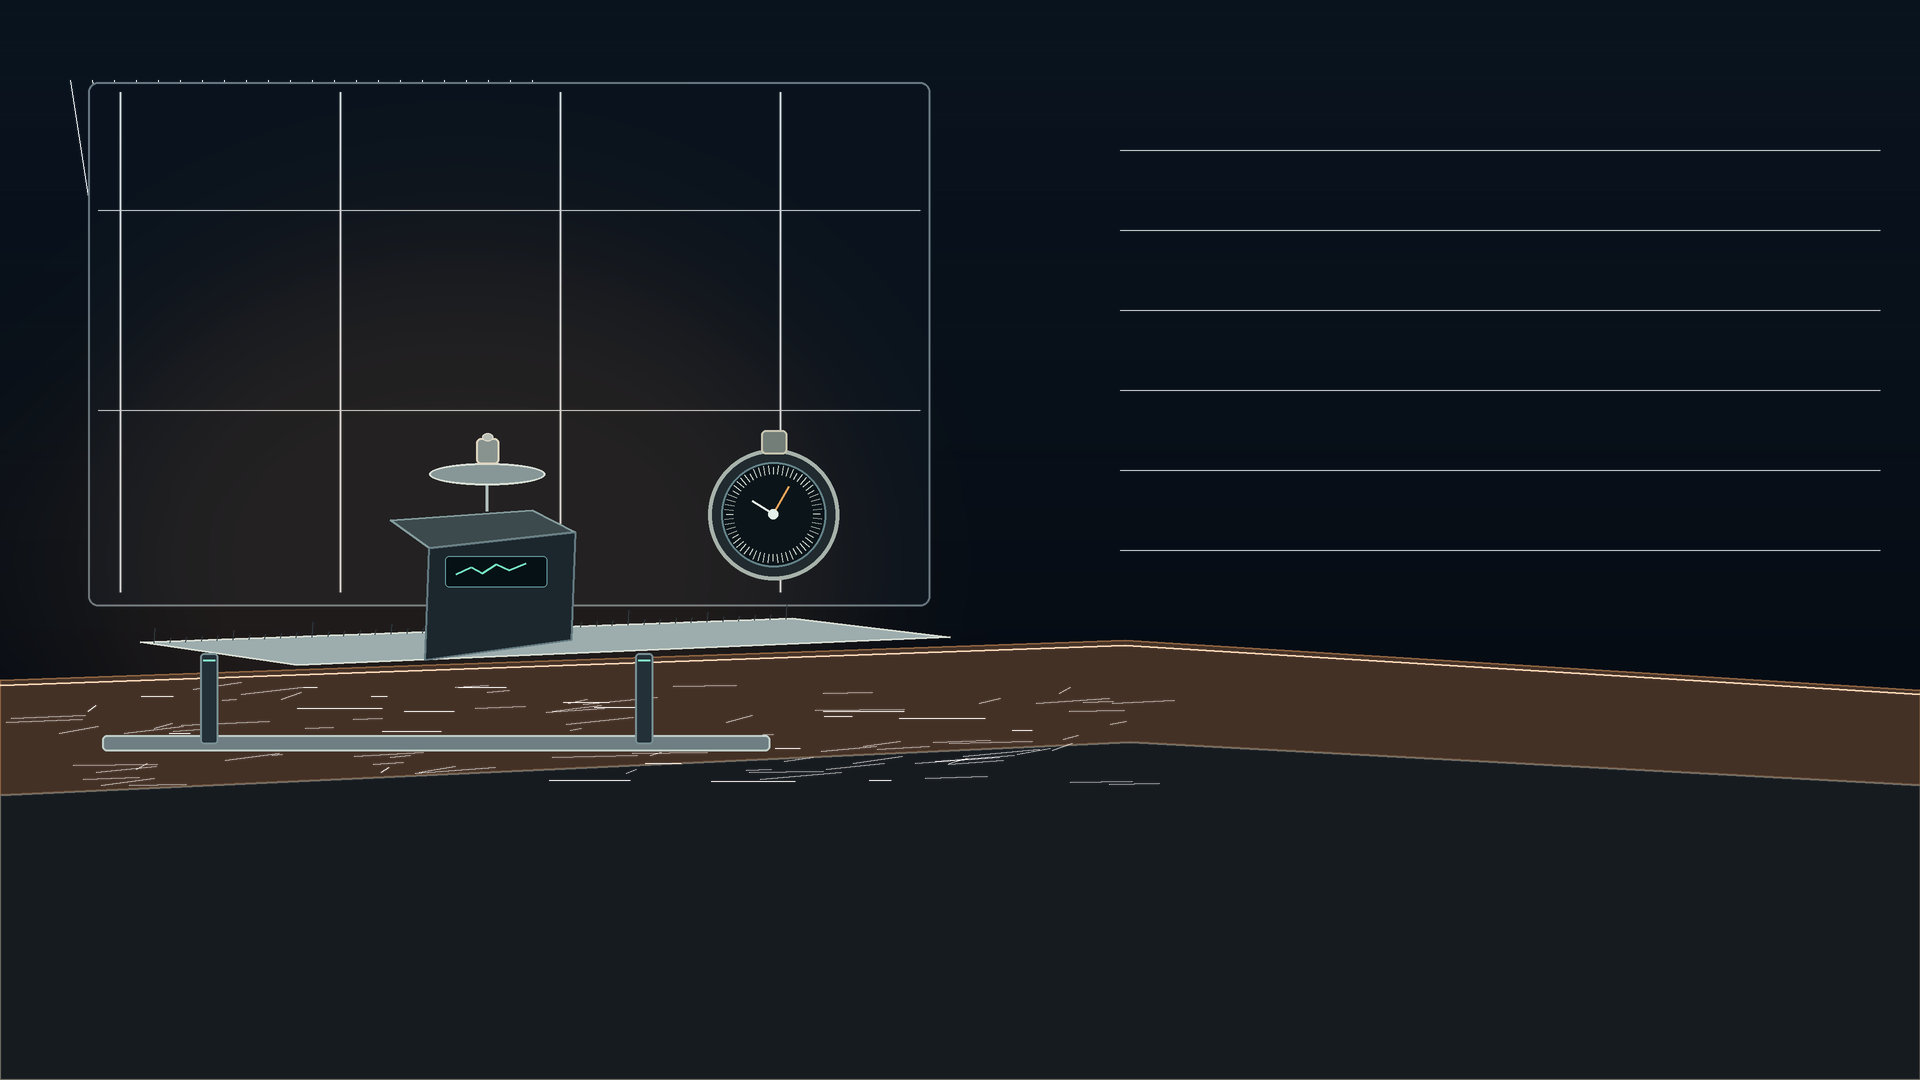
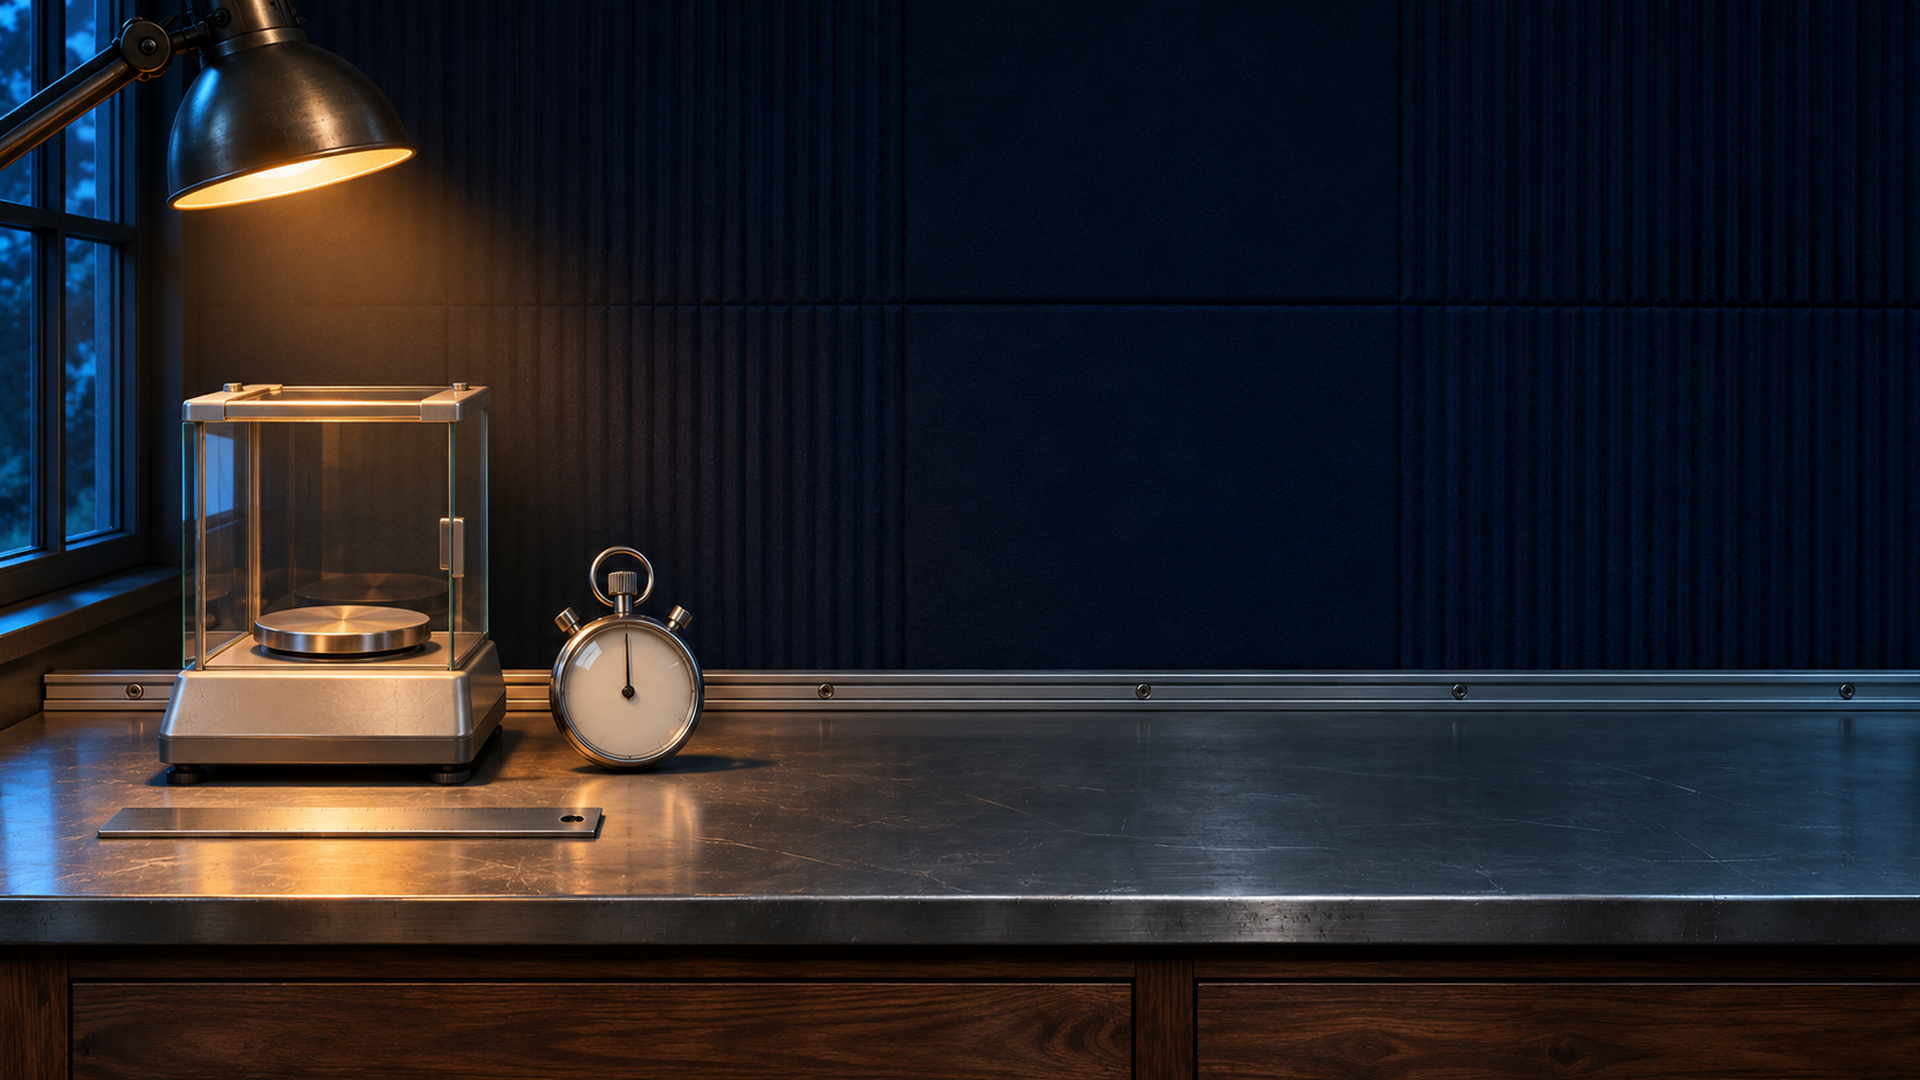
Refine measurement scene with photographic bench

diff --git a/stations/measurement/assets/archive/iteration_01/generate_assets_v1.py b/stations/measurement/assets/archive/iteration_01/generate_assets_v1.py
@@ -1,0 +1,189 @@
+#!/usr/bin/env python3
+"""Deterministically draw the Measurement Workshop asset set with Pillow.
+All geometry, lighting, and surfaces are authored here; no external image or model is used.
+"""
+from pathlib import Path
+from PIL import Image, ImageDraw, ImageFilter
+import math, random
+ROOT=Path(__file__).resolve().parents[1]
+OUT=ROOT/'stations/measurement/assets'
+S=2
+
+def canvas(w,h,bg=(7,11,18,255)):
+    return Image.new('RGBA',(w*S,h*S),bg)
+def sc(p): return tuple(int(round(v*S)) for v in p)
+def poly(d,pts,fill,outline=None,width=1): d.polygon([sc(p) for p in pts],fill=fill); \
+    d.line([sc(p) for p in pts+[pts[0]]],fill=outline,width=width*S,joint='curve') if outline else None
+def rect(d,box,fill,outline=None,width=1): d.rectangle(sc(box),fill=fill,outline=outline,width=width*S)
+def ellipse(d,box,fill,outline=None,width=1): d.ellipse(sc(box),fill=fill,outline=outline,width=width*S)
+def line(d,pts,fill,width=1): d.line([sc(p) for p in pts],fill=fill,width=max(1,width*S),joint='curve')
+def rounded(d,box,r,fill,outline=None,width=1): d.rounded_rectangle(sc(box),radius=r*S,fill=fill,outline=outline,width=width*S)
+def grad_bg(w,h,top,bottom):
+    im=Image.new('RGBA',(w*S,h*S)); p=im.load()
+    for y in range(h*S):
+        t=y/(h*S-1)
+        c=tuple(int(top[i]*(1-t)+bottom[i]*t) for i in range(4))
+        for x in range(w*S): p[x,y]=c
+    return im
+
+def save(im,name):
+    if S!=1: im=im.resize((im.width//S,im.height//S),Image.Resampling.LANCZOS)
+    im.save(OUT/name,optimize=True)
+
+def make_bg():
+    w,h=1920,1080; im=grad_bg(w,h,(10,20,31,255),(4,8,14,255)); d=ImageDraw.Draw(im,'RGBA')
+    # Deep, quiet instrument bay; broad warm task light on the left, annotation wall stays open on right.
+    for i in range(22):
+        x=70+i*22; line(d,[(x,80),(x+80,600)],(90,150,175,8),1)
+    rounded(d,(88,82,930,606),10,(10,19,29,255),(42,64,78,180),2)
+    # Wall panels / shadow seams
+    for x in [120,340,560,780]: line(d,[(x,92),(x,592)],(62,82,93,70),2)
+    for y in [210,410]: line(d,[(98,y),(920,y)],(51,69,83,60),1)
+    # Practical warm work lamp pool
+    glow=Image.new('RGBA',im.size,(0,0,0,0)); gd=ImageDraw.Draw(glow)
+    gd.ellipse(sc((10,190,910,930)),fill=(237,145,72,28)); glow=glow.filter(ImageFilter.GaussianBlur(95*S)); im=Image.alpha_composite(im,glow); d=ImageDraw.Draw(im,'RGBA')
+    # Bench top and front edge
+    poly(d,[(0,680),(1125,640),(1920,690),(1920,785),(1130,742),(0,795)],(68,49,38,255),(141,99,64,255),2)
+    poly(d,[(0,795),(1130,742),(1920,785),(1920,1080),(0,1080)],(22,27,32,255),(73,67,57,200),2)
+    # Grain and edge glints
+    random.seed(9)
+    for _ in range(100):
+        x=random.randint(0,1120); y=random.randint(686,785); ln=random.randint(8,90)
+        line(d,[(x,y),(x+ln,y-random.randint(0,7))],(180,127,79,random.randint(9,35)),1)
+    line(d,[(0,685),(1125,645),(1920,694)],(245,182,120,135),2)
+    # Precision ruler laid in perspective along rear bench
+    poly(d,[(140,642),(792,618),(950,637),(297,665)],(157,173,174,255),(218,223,213,255),2)
+    for i in range(41):
+        t=i/40; x=154+t*632; y=643-t*24
+        hh=15 if i%10==0 else (10 if i%5==0 else 5)
+        line(d,[(x,y),(x+1,y-hh)],(21,34,40,225),1)
+    # analytical balance - plinth, pan, column, instrument window
+    poly(d,[(390,520),(532,510),(575,532),(429,548)],(61,74,77,255),(132,156,157,255),2)
+    poly(d,[(429,548),(575,532),(571,640),(425,660)],(28,39,45,255),(99,122,128,255),2)
+    rounded(d,(445,556,547,587),4,(6,17,21,255),(102,158,162,255),1)
+    line(d,[(456,574),(471,567),(482,573),(496,564),(509,570),(526,563)],(111,227,193,245),2)
+    # pan
+    line(d,[(487,511),(487,478)],(175,190,189,255),3); ellipse(d,(429,463,545,485),(135,151,151,255),(218,224,215,255),2)
+    # small calibration weight on pan
+    rounded(d,(476,438,499,464),5,(136,147,144,255),(223,214,191,255),2)
+    ellipse(d,(482,433,493,441),(184,190,179,255),(230,223,208,255),1)
+    # stopwatch: physical case, crown, dial, hands
+    ellipse(d,(708,449,839,580),(32,42,47,255),(166,178,170,255),4)
+    rounded(d,(761,430,787,454),5,(114,126,119,255),(201,197,177,255),2)
+    ellipse(d,(721,462,826,567),(11,20,25,255),(99,131,137,255),2)
+    for i in range(60):
+        a=math.pi*2*i/60-math.pi/2; r1=47 if i%5==0 else 49; r2=40
+        line(d,[(773+math.cos(a)*r1,514+math.sin(a)*r1),(773+math.cos(a)*r2,514+math.sin(a)*r2)],(198,209,194,210),1)
+    line(d,[(773,514),(789,486)],(242,166,90,255),2); line(d,[(773,514),(752,501)],(230,240,232,245),2); ellipse(d,(768,509,778,519),(227,239,232,255))
+    # mounted rail with sensor gate silhouettes
+    rounded(d,(102,735,770,751),5,(111,126,130,255),(190,205,199,255),2)
+    for x in [200,635]:
+        rounded(d,(x,653,x+18,744),4,(35,48,55,255),(120,143,147,255),2)
+        line(d,[(x+3,660),(x+15,660)],(111,227,193,220),2)
+    # right wall keeps readable dark negative space for live labels
+    for y in range(150,600,80): line(d,[(1120,y),(1880,y)],(38,55,70,55),1)
+    save(im,'bench_bg.png')
+
+def make_ruler():
+    w,h=640,128; im=canvas(w,h,(0,0,0,0)); d=ImageDraw.Draw(im,'RGBA')
+    # Brushed steel blade, bevels, machined dark edge
+    poly(d,[(24,25),(607,25),(624,39),(624,99),(607,113),(24,113),(12,100),(12,38)],(117,136,139,255),(221,228,218,255),2)
+    line(d,[(26,30),(604,30),(618,41)],(241,243,228,200),2); line(d,[(26,107),(604,107)],(51,67,71,210),2)
+    for i in range(51):
+        x=28+i*11.5; ht=42 if i%10==0 else (29 if i%5==0 else 17)
+        line(d,[(x,39),(x,39+ht)],(16,28,33,240),2 if i%10==0 else 1)
+        if i%10==0: ellipse(d,(x-2,91,x+2,95),(37,52,55,255))
+    # edge grip detail
+    for x in range(38,95,8): line(d,[(x,46),(x+6,46)],(191,204,198,170),1)
+    save(im,'ruler.png')
+
+def make_balance():
+    w=h=512; im=canvas(w,h,(0,0,0,0)); d=ImageDraw.Draw(im,'RGBA')
+    # soft contact shadow
+    ellipse(d,(73,425,441,478),(0,0,0,115))
+    # cast-metal base and tapered shoulders
+    poly(d,[(92,337),(420,337),(454,390),(424,442),(88,442),(57,390)],(35,49,55,255),(146,170,170,255),3)
+    poly(d,[(78,389),(435,389),(424,431),(91,431)],(19,29,35,255),(87,112,119,255),2)
+    rounded(d,(145,356,367,410),8,(7,17,22,255),(86,144,149,255),2)
+    rounded(d,(167,368,346,398),4,(5,14,18,255),(52,93,101,255),1)
+    # quiet segmented trace not numeric readout
+    line(d,[(187,384),(211,384),(220,376),(237,389),(258,378),(280,384),(321,384)],(111,227,193,230),3)
+    for x in [126,385]: ellipse(d,(x-8,408,x+8,424),(11,19,23,255),(98,119,120,255),2)
+    # pedestal and pan
+    poly(d,[(226,329),(286,329),(299,352),(212,352)],(87,103,105,255),(179,191,181,255),2)
+    line(d,[(256,336),(256,224)],(139,154,151,255),8); line(d,[(250,233),(262,233)],(213,220,204,255),2)
+    ellipse(d,(102,199,410,244),(104,119,117,255),(226,230,216,255),3)
+    ellipse(d,(116,204,396,229),(176,188,179,255),(83,100,101,255),2)
+    # compact calibration mass
+    rounded(d,(221,125,292,199),17,(121,131,124,255),(226,218,197,255),3)
+    ellipse(d,(238,113,275,131),(165,173,159,255),(229,222,201,255),2)
+    line(d,[(235,142),(277,142)],(72,86,83,230),2)
+    # controlled cool rim
+    line(d,[(106,203),(178,198)],(152,218,218,150),2)
+    save(im,'balance.png')
+
+def make_stopwatch():
+    w=h=320; im=canvas(w,h,(0,0,0,0)); d=ImageDraw.Draw(im,'RGBA')
+    ellipse(d,(47,77,273,302),(0,0,0,110))
+    rounded(d,(137,29,183,82),10,(95,112,111,255),(201,213,203,255),3)
+    ellipse(d,(54,65,266,278),(39,51,56,255),(187,199,188,255),7)
+    ellipse(d,(74,85,246,257),(9,19,25,255),(102,137,141,255),3)
+    # physical minute hashes and analog hands
+    for i in range(60):
+        a=2*math.pi*i/60-math.pi/2; r1=76 if i%5==0 else 80; r2=68
+        line(d,[(160+math.cos(a)*r1,171+math.sin(a)*r1),(160+math.cos(a)*r2,171+math.sin(a)*r2)],(216,226,214,220),2 if i%5==0 else 1)
+    line(d,[(160,171),(190,126)],(242,166,90,255),4); line(d,[(160,171),(120,147)],(234,241,228,255),3)
+    ellipse(d,(152,163,168,179),(232,240,228,255))
+    # side start/reset buttons
+    rounded(d,(34,106,61,147),8,(77,92,95,255),(181,195,189,255),2)
+    rounded(d,(259,108,286,149),8,(77,92,95,255),(181,195,189,255),2)
+    line(d,[(103,238),(217,238)],(75,101,106,150),1)
+    save(im,'stopwatch.png')
+
+def make_rail_piece():
+    w,h=512,256; im=canvas(w,h,(0,0,0,0)); d=ImageDraw.Draw(im,'RGBA')
+    # aluminum extrusion in three-quarter view, repeatable end-to-end
+    poly(d,[(45,83),(405,83),(465,112),(105,112)],(188,202,197,255),(236,240,225,255),3)
+    poly(d,[(105,112),(465,112),(465,178),(105,178)],(72,92,99,255),(185,205,202,255),3)
+    poly(d,[(45,83),(105,112),(105,178),(45,146)],(45,61,68,255),(156,175,173,255),3)
+    # recessed top track and twin raised shoulders
+    poly(d,[(73,91),(395,91),(428,106),(106,106)],(48,64,70,255),(120,142,143,255),2)
+    poly(d,[(93,91),(137,91),(169,106),(124,106)],(127,149,149,255),(211,222,213,255),2)
+    poly(d,[(300,91),(344,91),(376,106),(332,106)],(127,149,149,255),(211,222,213,255),2)
+    line(d,[(112,120),(449,120)],(206,220,214,150),2)
+    # end connector tongue and bolt recesses
+    for x,y in [(75,121),(75,151),(426,131),(426,160)]:
+        ellipse(d,(x-7,y-6,x+7,y+6),(23,37,43,255),(133,156,157,255),2); line(d,[(x-4,y),(x+4,y)],(183,197,191,170),1)
+    save(im,'rail_piece.png')
+
+def make_rail_slot():
+    w,h=512,256; im=canvas(w,h,(0,0,0,0)); d=ImageDraw.Draw(im,'RGBA')
+    # sensor gate mounting shoe, designed to slide into the rail extrusion
+    poly(d,[(91,146),(421,146),(450,165),(121,165)],(91,110,111,255),(207,219,208,255),3)
+    poly(d,[(121,165),(450,165),(450,195),(121,195)],(40,56,63,255),(144,166,165,255),2)
+    # dovetail shoe
+    poly(d,[(147,137),(353,137),(382,151),(176,151)],(164,181,178,255),(232,236,222,255),2)
+    poly(d,[(176,151),(382,151),(373,164),(168,164)],(89,112,115,255),(187,202,194,255),2)
+    # gate upright + emitter/receiver window
+    poly(d,[(204,137),(220,42),(286,42),(309,137)],(48,67,75,255),(177,198,199,255),3)
+    rounded(d,(218,67,291,111),9,(9,23,31,255),(119,154,158,255),2)
+    rounded(d,(232,79,277,99),5,(55,123,130,255),(157,222,216,255),2)
+    line(d,[(238,89),(270,89)],(193,250,229,240),2)
+    for x in [137,401]:
+        ellipse(d,(x-9,166,x+9,183),(15,27,33,255),(170,187,181,255),2)
+    # subtle glass top edge
+    line(d,[(223,52),(279,52)],(218,230,222,175),2)
+    save(im,'rail_slot.png')
+
+def make_preview():
+    # Exact-size contact sheet to inspect composition, with no textual labels.
+    W,H=1600,900; im=Image.new('RGBA',(W,H),(7,11,18,255)); d=ImageDraw.Draw(im,'RGBA')
+    bg=Image.open(OUT/'bench_bg.png').convert('RGBA').resize((960,540),Image.Resampling.LANCZOS); im.alpha_composite(bg,(0,0))
+    for fname,box in [('ruler.png',(1000,55,1540,150)),('balance.png',(1060,185,1260,385)),('stopwatch.png',(1310,180,1465,335)),('rail_piece.png',(1000,450,1280,590)),('rail_slot.png',(1300,450,1570,590))]:
+        a=Image.open(OUT/fname).convert('RGBA'); a.thumbnail((box[2]-box[0],box[3]-box[1]),Image.Resampling.LANCZOS); im.alpha_composite(a,(box[0]+(box[2]-box[0]-a.width)//2,box[1]+(box[3]-box[1]-a.height)//2))
+    im.convert('RGB').save(OUT/'measurement_preview.jpg',quality=94,optimize=True)
+
+def main():
+    OUT.mkdir(parents=True,exist_ok=True)
+    make_bg(); make_ruler(); make_balance(); make_stopwatch(); make_rail_piece(); make_rail_slot(); make_preview()
+if __name__=='__main__': main()

diff --git a/tools/generate_measurement_assets.py b/tools/generate_measurement_assets.py
@@ -31,58 +31,11 @@ def save(im,name):
     im.save(OUT/name,optimize=True)
 
 def make_bg():
-    w,h=1920,1080; im=grad_bg(w,h,(10,20,31,255),(4,8,14,255)); d=ImageDraw.Draw(im,'RGBA')
-    # Deep, quiet instrument bay; broad warm task light on the left, annotation wall stays open on right.
-    for i in range(22):
-        x=70+i*22; line(d,[(x,80),(x+80,600)],(90,150,175,8),1)
-    rounded(d,(88,82,930,606),10,(10,19,29,255),(42,64,78,180),2)
-    # Wall panels / shadow seams
-    for x in [120,340,560,780]: line(d,[(x,92),(x,592)],(62,82,93,70),2)
-    for y in [210,410]: line(d,[(98,y),(920,y)],(51,69,83,60),1)
-    # Practical warm work lamp pool
-    glow=Image.new('RGBA',im.size,(0,0,0,0)); gd=ImageDraw.Draw(glow)
-    gd.ellipse(sc((10,190,910,930)),fill=(237,145,72,28)); glow=glow.filter(ImageFilter.GaussianBlur(95*S)); im=Image.alpha_composite(im,glow); d=ImageDraw.Draw(im,'RGBA')
-    # Bench top and front edge
-    poly(d,[(0,680),(1125,640),(1920,690),(1920,785),(1130,742),(0,795)],(68,49,38,255),(141,99,64,255),2)
-    poly(d,[(0,795),(1130,742),(1920,785),(1920,1080),(0,1080)],(22,27,32,255),(73,67,57,200),2)
-    # Grain and edge glints
-    random.seed(9)
-    for _ in range(100):
-        x=random.randint(0,1120); y=random.randint(686,785); ln=random.randint(8,90)
-        line(d,[(x,y),(x+ln,y-random.randint(0,7))],(180,127,79,random.randint(9,35)),1)
-    line(d,[(0,685),(1125,645),(1920,694)],(245,182,120,135),2)
-    # Precision ruler laid in perspective along rear bench
-    poly(d,[(140,642),(792,618),(950,637),(297,665)],(157,173,174,255),(218,223,213,255),2)
-    for i in range(41):
-        t=i/40; x=154+t*632; y=643-t*24
-        hh=15 if i%10==0 else (10 if i%5==0 else 5)
-        line(d,[(x,y),(x+1,y-hh)],(21,34,40,225),1)
-    # analytical balance - plinth, pan, column, instrument window
-    poly(d,[(390,520),(532,510),(575,532),(429,548)],(61,74,77,255),(132,156,157,255),2)
-    poly(d,[(429,548),(575,532),(571,640),(425,660)],(28,39,45,255),(99,122,128,255),2)
-    rounded(d,(445,556,547,587),4,(6,17,21,255),(102,158,162,255),1)
-    line(d,[(456,574),(471,567),(482,573),(496,564),(509,570),(526,563)],(111,227,193,245),2)
-    # pan
-    line(d,[(487,511),(487,478)],(175,190,189,255),3); ellipse(d,(429,463,545,485),(135,151,151,255),(218,224,215,255),2)
-    # small calibration weight on pan
-    rounded(d,(476,438,499,464),5,(136,147,144,255),(223,214,191,255),2)
-    ellipse(d,(482,433,493,441),(184,190,179,255),(230,223,208,255),1)
-    # stopwatch: physical case, crown, dial, hands
-    ellipse(d,(708,449,839,580),(32,42,47,255),(166,178,170,255),4)
-    rounded(d,(761,430,787,454),5,(114,126,119,255),(201,197,177,255),2)
-    ellipse(d,(721,462,826,567),(11,20,25,255),(99,131,137,255),2)
-    for i in range(60):
-        a=math.pi*2*i/60-math.pi/2; r1=47 if i%5==0 else 49; r2=40
-        line(d,[(773+math.cos(a)*r1,514+math.sin(a)*r1),(773+math.cos(a)*r2,514+math.sin(a)*r2)],(198,209,194,210),1)
-    line(d,[(773,514),(789,486)],(242,166,90,255),2); line(d,[(773,514),(752,501)],(230,240,232,245),2); ellipse(d,(768,509,778,519),(227,239,232,255))
-    # mounted rail with sensor gate silhouettes
-    rounded(d,(102,735,770,751),5,(111,126,130,255),(190,205,199,255),2)
-    for x in [200,635]:
-        rounded(d,(x,653,x+18,744),4,(35,48,55,255),(120,143,147,255),2)
-        line(d,[(x+3,660),(x+15,660)],(111,227,193,220),2)
-    # right wall keeps readable dark negative space for live labels
-    for y in range(150,600,80): line(d,[(1120,y),(1880,y)],(38,55,70,55),1)
-    save(im,'bench_bg.png')
+    # The accepted photographic background is preserved as source in the asset folder.
+    # Resize only; never repaint or overwrite the source.
+    source=Image.open(OUT/'bench_bg_source.png').convert('RGB')
+    source=source.resize((1920,1080),Image.Resampling.LANCZOS)
+    source.save(OUT/'bench_bg.png',optimize=True)
 
 def make_ruler():
     w,h=640,128; im=canvas(w,h,(0,0,0,0)); d=ImageDraw.Draw(im,'RGBA')

diff --git a/docs/requests/011-measurement-workshop.md b/docs/requests/011-measurement-workshop.md
@@ -3,7 +3,7 @@
 This folder supplies Section D of [issue #17](https://github.com/yasinkaya701/glitch-academy/issues/17): a quiet measurement bench and reusable measurement/rail sprites.
 
 ## Files
-- `bench_bg.png` — 1920×1080 night-lab bench, with instruments staged left and a deliberately dark open wall on the right for live Godot labels.
+- `bench_bg.png` — 1920×1080 photorealistic night-lab bench. Instruments sit under the warm pool at left; the right wall stays uncluttered for live Godot readouts. `bench_bg_source.png` is the preserved 1672×941 source image.
 - `ruler.png` — 640×128 transparent precision ruler.
 - `balance.png` — 512×512 transparent top-pan analytical balance and calibration mass.
 - `stopwatch.png` — 320×320 transparent analog stopwatch.
@@ -12,7 +12,7 @@ This folder supplies Section D of [issue #17](https://github.com/yasinkaya701/gl
 - `measurement_preview.jpg` — contact sheet for review only; not a scene screenshot.
 
 ## Source and provenance
-All pixels are authored from deterministic geometry, gradients, highlights, and surface marks in `tools/generate_measurement_assets.py` using Pillow. No external artwork, models, fonts, or AI-generated image content is used. Regenerate with:
+The bench background was generated specifically for this scene with OpenAI ImageGen; its unmodified 1672×941 source is preserved as `bench_bg_source.png`, and the deterministic Pillow generator only resizes it to 1920×1080. Every transparent measurement sprite is hand-authored from geometry, gradients, highlights, and surface marks in `tools/generate_measurement_assets.py`. No external models, fonts, or stock images are used. The earlier vector background, its preview, and its generator remain in `stations/measurement/assets/archive/iteration_01/`. Regenerate with:
 
 ```sh
 python3 tools/generate_measurement_assets.py
